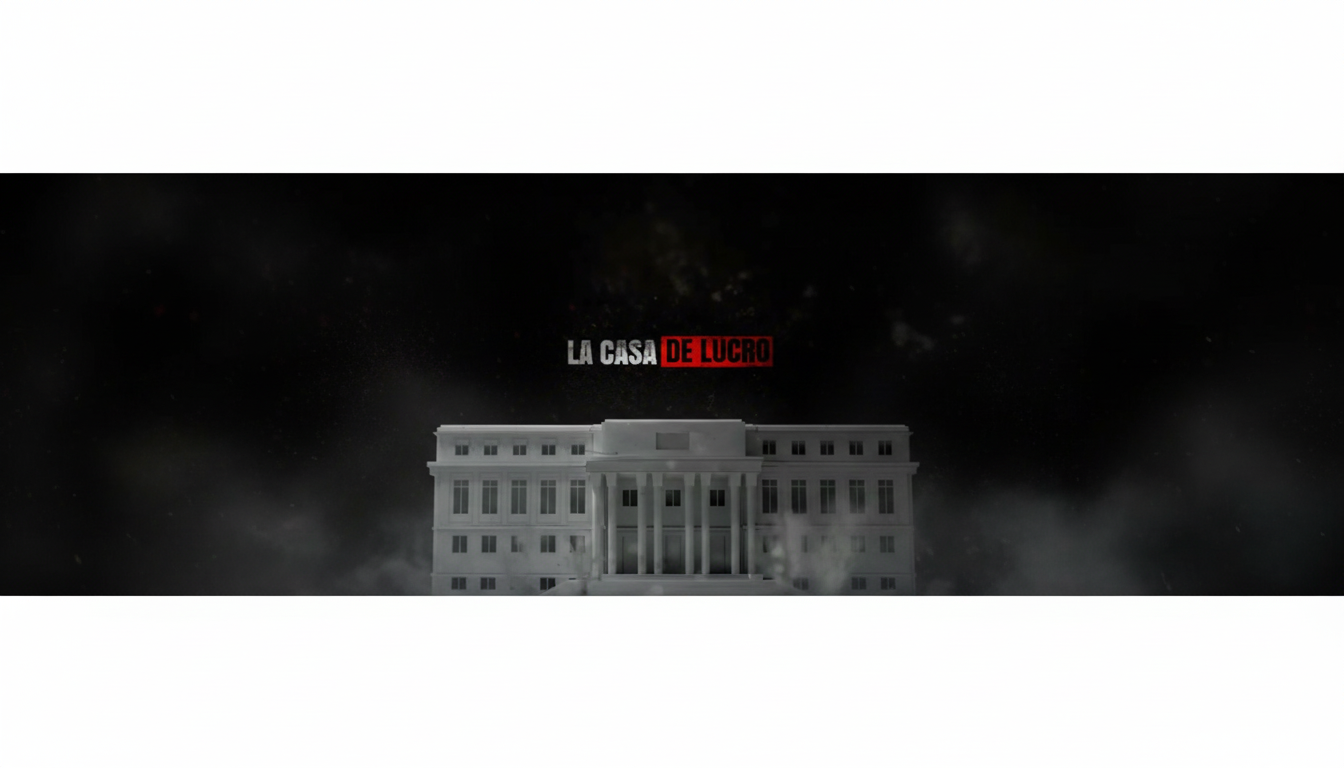
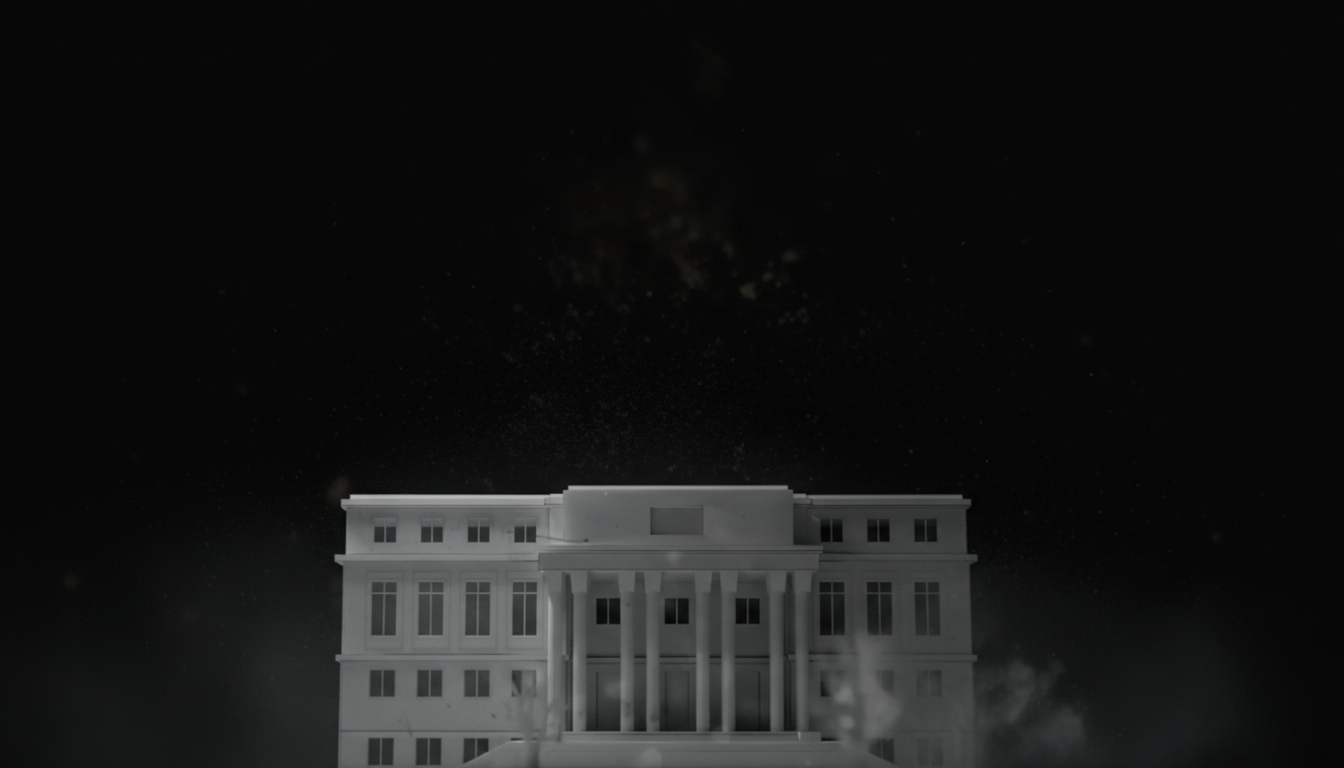
Changes

diff --git a/public/front/css/jogos-secretos.css b/public/front/css/jogos-secretos.css
@@ -133,7 +133,7 @@ body {
 .hero {
   position: relative;
   display: grid;
-  align-content: center;
+  align-content: start;
   border-radius: 1rem;
   overflow: hidden;
   height: clamp(230px, 38vw, 340px);
@@ -147,8 +147,9 @@ body {
   width: 100%;
   height: 100%;
   object-fit: cover;
-  filter: saturate(0.95) contrast(1.02) brightness(0.78);
-  opacity: .5;
+  object-position: center bottom;
+  filter: saturate(0.95) contrast(1.02) brightness(0.85);
+  opacity: .6;
 }
 
 .hero-content {
